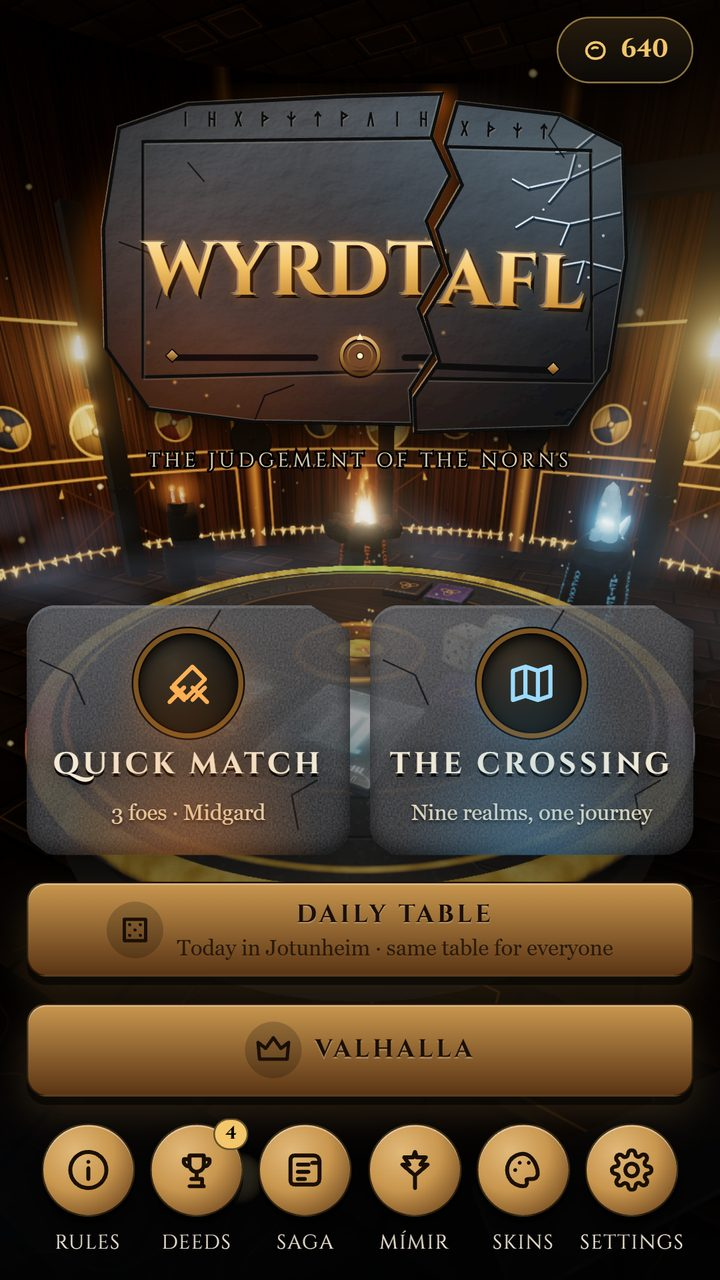
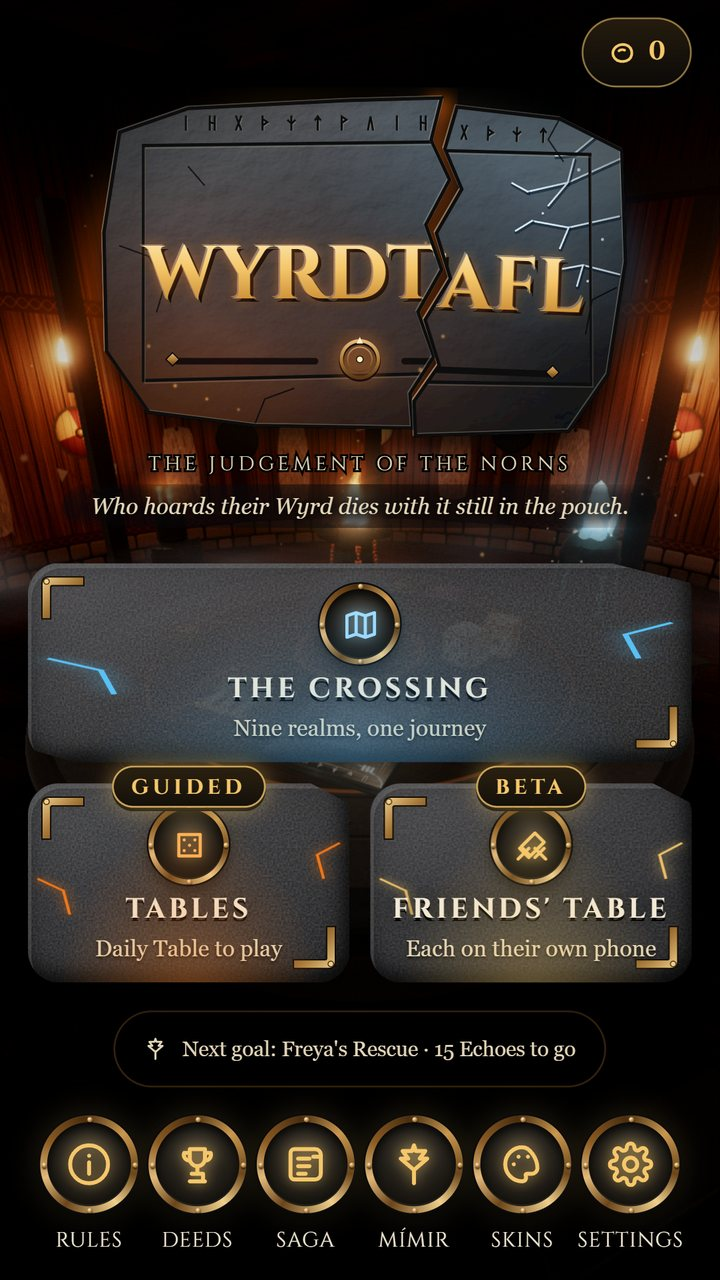
Friends' Table: new section, hall shot, FAQ and privacy (1.4.0)

diff --git a/index.html b/index.html
@@ -4,7 +4,7 @@
   <meta charset="utf-8">
   <meta name="viewport" content="width=device-width, initial-scale=1, viewport-fit=cover">
   <title>Wyrdtafl — The Judgement of the Norns · Norse tile duel for Android</title>
-  <meta name="description" content="Balance Fire and Ice, bet your Wyrd and cross the Nine Realms before the Norns pass judgement. Wyrdtafl is a dark Norse tile duel for Android: single player, offline, no ads, no in-app purchases.">
+  <meta name="description" content="Balance Fire and Ice, bet your Wyrd and cross the Nine Realms before the Norns pass judgement. Wyrdtafl is a dark Norse tile duel for Android: against AI champions or friends at the same table, offline, no ads, no in-app purchases.">
   <meta name="theme-color" content="#07070a">
   <meta name="color-scheme" content="dark">
   <link rel="canonical" href="https://skimiforow.github.io/wyrdtafl/">
@@ -33,7 +33,7 @@
     "@type": ["VideoGame", "MobileApplication"],
     "name": "Wyrdtafl — The Judgement of the Norns",
     "alternateName": "Wyrdtafl",
-    "description": "A single-player Norse tile duel for Android against one to three AI champions. Balance Fire and Ice, bet your Wyrd, cast Galdr Stones and cross the Nine Realms.",
+    "description": "A Norse tile duel for Android against one to three AI champions, or up to four friends each on their own phone. Balance Fire and Ice, bet your Wyrd, cast Galdr Stones and cross the Nine Realms.",
     "url": "https://skimiforow.github.io/wyrdtafl/",
     "image": "https://skimiforow.github.io/wyrdtafl/assets/feature-graphic.png",
     "genre": ["Board game", "Strategy", "Roguelite"],
@@ -211,7 +211,7 @@
       <ul class="pillars reveal" role="list" style="list-style:none;padding:0">
         <li class="pillar">
           <svg viewBox="0 0 32 32" fill="none" stroke="currentColor" stroke-width="1.6" aria-hidden="true"><circle cx="16" cy="16" r="12"/><circle cx="16" cy="16" r="7.5"/><path d="M16 4v5M16 23v5M4 16h5M23 16h5M7.5 7.5l3.5 3.5M21 21l3.5 3.5M24.5 7.5 21 11M11 21l-3.5 3.5"/><circle cx="16" cy="16" r="1.8" fill="currentColor"/></svg>
-          <div><h3>1 to 3 rivals</h3><p>Sit the round table against AI champions who gamble, hoard and strike.</p></div>
+          <div><h3>Rivals or friends</h3><p>Face up to three AI champions who gamble, hoard and strike, or sit friends at the table, each on their own phone.</p></div>
         </li>
         <li class="pillar">
           <svg viewBox="0 0 32 32" fill="none" stroke="currentColor" stroke-width="1.6" aria-hidden="true"><path d="M16 3 27 9v14l-11 6L5 23V9z"/><path d="M16 3v26M5 9l11 6 11-6"/></svg>
@@ -328,6 +328,23 @@
             </ul>
           </div>
         </article>
+
+        <article class="feature tall flip">
+          <figure class="feature-media shot phone gold-glow reveal">
+            <img src="assets/media/shot-phone-09-friends.jpg" width="720" height="1280" loading="lazy" alt="The Friends' Table lobby: the host and a friend marked Ready, with the table's stones, turn timer, AI seats and realm, and Start the table">
+          </figure>
+          <div class="feature-copy reveal" style="--d:.1s">
+            <p class="eyebrow left">Friends' Table · Beta</p>
+            <h2>One table. Every phone.</h2>
+            <p class="lead">Up to four players sit the same table, each on their own phone, with no internet at all: the phones talk over Bluetooth and Wi-Fi. One phone hosts; friends join with a four-digit code the host approves.</p>
+            <ul class="feature-list">
+              <li>A Fair table (every stone for everyone) or a Free one (bring your own), a turn timer, AI seats for the empty chairs.</li>
+              <li>Fair leaving: a dropped phone gets 30 seconds, and walking away counts as a loss.</li>
+              <li>If the host's phone is lost, another phone takes over the table.</li>
+              <li>The Saga keeps your record against every friend, whatever name they use tonight.</li>
+            </ul>
+          </div>
+        </article>
       </div>
     </section>
 
@@ -372,7 +389,7 @@
           <article class="mode frost reveal" style="--d:.12s"><div class="rune" aria-hidden="true">ᚠ</div><h3>Quick Match</h3><p>Choose your foes, your realm and your stones, and sit down at once.</p></article>
           <article class="mode frost reveal"><div class="rune" aria-hidden="true">ᛗ</div><h3>Mímir's Tree</h3><p>Spend Honor Echoes on new stones, relics and permanent power. The harder the crossing, the more Echoes it pays.</p></article>
           <article class="mode ember reveal" style="--d:.06s"><div class="rune" aria-hidden="true">ᚾ</div><h3>Threads of Fate</h3><p>After Ragnarök: iron champions, cold Pyres, Fenrir's chain. Harder tables, greater Echoes.</p></article>
-          <article class="mode gold reveal" style="--d:.12s"><div class="rune" aria-hidden="true">ᛟ</div><h3>Deeds &amp; Saga</h3><p>Ten Deeds to earn, and everything the Norns have written about you so far.</p></article>
+          <article class="mode gold reveal" style="--d:.12s"><div class="rune" aria-hidden="true">ᛟ</div><h3>Deeds &amp; Saga</h3><p>Twelve Deeds to earn, and everything the Norns have written about you so far, friends' tables included.</p></article>
         </div>
       </div>
     </section>
@@ -384,7 +401,8 @@
         <h2 id="screens-title">Drawn by code. Lit by candle.</h2>
       </div>
       <div class="gallery" id="gallery" tabindex="0" aria-label="Screenshots, scroll sideways; select one to enlarge">
-        <button type="button"><img src="assets/media/shot-phone-01-hall.jpg" width="720" height="1280" loading="lazy" alt="The hall: the Wyrdtafl rune stone over the table, with Quick Match, The Crossing and the Daily Table"><span class="cap">The hall</span></button>
+        <button type="button"><img src="assets/media/shot-phone-01-hall.jpg" width="720" height="1280" loading="lazy" alt="The hall: the Wyrdtafl rune stone over the table, with The Crossing, Tables and the Friends' Table"><span class="cap">The hall</span></button>
+        <button type="button"><img src="assets/media/shot-phone-09-friends.jpg" width="720" height="1280" loading="lazy" alt="The Friends' Table lobby with a friend marked Ready"><span class="cap">Friends' Table</span></button>
         <button type="button"><img src="assets/media/shot-phone-02-muspelheim.jpg" width="720" height="1280" loading="lazy" alt="A match in Muspelheim, lava seams glowing round the table"><span class="cap">Muspelheim</span></button>
         <button type="button"><img src="assets/media/shot-phone-04-galdr.jpg" width="720" height="1280" loading="lazy" alt="Invoking Blood Tribute: every opponent loses a Wyrd Stone to the Well of Urd"><span class="cap">Galdr</span></button>
         <button type="button"><img src="assets/media/shot-phone-06-judgement.jpg" width="720" height="1280" loading="lazy" alt="The Verdict: the Norns rank every hand at the table"><span class="cap">The Verdict</span></button>
@@ -424,7 +442,7 @@
         <div class="faq reveal">
           <details><summary>Is it free to play?</summary><p>No — Wyrdtafl is a paid game with a single price. There are no ads, no in-app purchases, no loot boxes and no energy timers. Everything is earned by playing.</p></details>
           <details><summary>Do I need an internet connection or an account?</summary><p>No. The game plays fully offline and needs no account. Signing in to Google Play Games is optional and only adds achievements, leaderboards and cloud save.</p></details>
-          <details><summary>Is there online multiplayer?</summary><p>Not at the moment. Wyrdtafl is single player: you face one to three AI champions, each with their own style of play. The Daily Table gives every player the same seeded table to compare.</p></details>
+          <details><summary>Can I play with friends?</summary><p>Yes, at the Friends' Table (in Beta): up to four players in the same room, each on their own Android phone with Wyrdtafl, no internet needed. There is no online play over the internet; on your own you face one to three AI champions, and the Daily Table gives every player the same seeded table to compare.</p></details>
           <details><summary>Which devices does it support?</summary><p>Android phones, foldables and tablets, in portrait or landscape, plus Samsung DeX and desktop mode with mouse and keyboard. Graphics settings from Light to Max keep it smooth on modest hardware.</p></details>
           <details><summary>Which languages?</summary><p>English, Portuguese, Spanish, French, German, Italian, Polish and Turkish.</p></details>
           <details><summary>Do I need to know Norse myth or tafl games?</summary><p>Not at all. A guided first match teaches the rules in a few rounds; the myth is there to enjoy, not to study.</p></details>

diff --git a/privacy/pt/index.html b/privacy/pt/index.html
@@ -16,7 +16,7 @@
   </header>
   <main class="wrap article">
     <h1>Wyrdtafl — Política de Privacidade</h1>
-    <p class="effective">Em vigor desde 15 de novembro de 2026</p>
+    <p class="effective">Em vigor desde 16 de novembro de 2026</p>
     <p>Esta política aplica-se ao jogo Android <em>Wyrdtafl — O Julgamento das Nornas</em>, publicado por <strong>Skimiforow</strong>, um programador independente. O mesmo texto pode ser lido dentro do jogo em Definições → Sobre → Créditos e privacidade.</p>
 
     <h2>Quem publica o jogo</h2>
@@ -38,7 +38,11 @@
     <p>O formulário envia apenas o texto que escreves, ligado ao último erro dessa sessão, para lermos as tuas palavras ao lado dos detalhes técnicos. Nada é enviado sem tocares em Enviar. As versões de teste do jogo podem também pedir-te, uma vez, que lhe dês notas de 1 a 5; essas notas e o comentário que acrescentares são enviados ao Sentry da mesma forma, e só se tocares em Enviar.</p>
 
     <h2>Permissões</h2>
-    <p>O jogo usa estas permissões, que o Android concede sem perguntar: <strong>Internet</strong> e <strong>estado da rede</strong>, usadas apenas para enviar relatórios de falhas e de problemas; <strong>vibração</strong>, para a resposta háptica (que podes desligar nas Definições); e <strong>manter o dispositivo ativo</strong> e <strong>arranque concluído</strong>, usadas apenas pelo lembrete diário opcional (para o entregar e para o voltar a armar depois de o telemóvel reiniciar). A única que pede é a de <strong>Notificações</strong> (Android 13 e posteriores), e só quando ativas o lembrete diário nas Definições. Não usa o identificador de publicidade nem a permissão de alarmes exatos. Joga-se totalmente offline.</p>
+    <p>O jogo usa estas permissões, que o Android concede sem perguntar: <strong>Internet</strong> e <strong>estado da rede</strong>, usadas apenas para enviar relatórios de falhas e de problemas; <strong>vibração</strong>, para a resposta háptica (que podes desligar nas Definições); e <strong>manter o dispositivo ativo</strong> e <strong>arranque concluído</strong>, usadas apenas pelo lembrete diário opcional (para o entregar e para o voltar a armar depois de o telemóvel reiniciar). Fora da Mesa de Amigos, a única que pede é a de <strong>Notificações</strong> (Android 13 e posteriores), e só quando ativas o lembrete diário nas Definições. Não usa o identificador de publicidade nem a permissão de alarmes exatos. Joga-se totalmente offline.</p>
+    <p>Para a Mesa de Amigos (ver abaixo) usa também o <strong>Bluetooth</strong> (Android 12 e posteriores: <strong>dispositivos próximos</strong> — encontrar telemóveis próximos, anunciar-se e ligar-se a eles; Android 11 e anteriores: Bluetooth e administração do Bluetooth), os <strong>dispositivos Wi-Fi próximos</strong> (Android 13 e posteriores, declarada como nunca usada para obter a localização), o <strong>estado do Wi-Fi</strong> (concedida sem perguntar) e, só no Android 12 e anteriores, a <strong>localização</strong>, que o Android exige para encontrar dispositivos próximos: o jogo não lê nenhuma localização. Estas só são pedidas quando abres a Mesa de Amigos.</p>
+
+    <h2>Mesa de Amigos (multijogador local)</h2>
+    <p>Numa Mesa de Amigos os telemóveis falam diretamente entre si por Bluetooth e Wi-Fi Direct (Google Nearby Connections), sem internet. Só se trocam as jogadas, os nomes escolhidos à mesa e um código aleatório, e só com os telemóveis dessa mesa: nada nos é enviado. O código é criado no teu telemóvel da primeira vez que abres a Mesa de Amigos e não está ligado a ti, à tua conta nem ao teu dispositivo; cada telemóvel usa-o para guardar, no próprio telemóvel, um registo das mesas jogadas com cada amigo (os nomes mais recentes e os resultados), que aparece na tua Saga. É apagado com os dados do jogo. No Android 12 e anteriores, o Android pede a permissão de localização apenas porque a exige para encontrar dispositivos próximos; o jogo não lê nenhuma localização. As permissões de Bluetooth e de dispositivos próximos só são pedidas quando abres a Mesa de Amigos.</p>
 
     <h2>Lembrete diário (opcional)</h2>
     <p>Se o ativares nas Definições, o jogo agenda uma notificação por dia à hora que escolheres. É uma notificação local, criada no teu dispositivo: nada é enviado para nós nem para ninguém, e nenhum dado sobre ela sai do teu telemóvel. Podes desativá-la a qualquer momento nas Definições ou nas definições de notificações do Android.</p>

diff --git a/privacy/index.html b/privacy/index.html
@@ -16,7 +16,7 @@
   </header>
   <main class="wrap article">
     <h1>Wyrdtafl — Privacy Policy</h1>
-    <p class="effective">Effective 15 November 2026</p>
+    <p class="effective">Effective 16 November 2026</p>
     <p>This policy covers the Android game <em>Wyrdtafl — The Judgement of the Norns</em>, published by <strong>Skimiforow</strong>, an independent developer. The same text is readable inside the game under Settings → About → Credits &amp; privacy.</p>
 
     <h2>Who publishes the game</h2>
@@ -38,7 +38,11 @@
     <p>The report form sends only the text you type, linked to the last error of that session, so we can read your words next to the technical details. Nothing is sent unless you tap Send. Test versions of the game may also ask you, once, to rate it from 1 to 5; those ratings and any comment you add are sent to Sentry the same way, and only if you tap Send.</p>
 
     <h2>Permissions</h2>
-    <p>The game uses these permissions, which Android grants without asking: <strong>Internet</strong> and <strong>network state</strong>, used solely to send crash reports and problem reports; <strong>vibration</strong>, for the haptic feedback (which you can switch off in Settings); and <strong>wake lock</strong> and <strong>receive boot completed</strong>, used only by the optional daily reminder (to deliver it and to re-arm it after the phone restarts). The one permission it ever asks for is <strong>Notifications</strong> (Android 13 and later), and only when you switch on the daily reminder in Settings. It does not use the advertising ID or the exact-alarm permission. It plays fully offline.</p>
+    <p>The game uses these permissions, which Android grants without asking: <strong>Internet</strong> and <strong>network state</strong>, used solely to send crash reports and problem reports; <strong>vibration</strong>, for the haptic feedback (which you can switch off in Settings); and <strong>wake lock</strong> and <strong>receive boot completed</strong>, used only by the optional daily reminder (to deliver it and to re-arm it after the phone restarts). Outside the Friends' Table, the one permission it asks for is <strong>Notifications</strong> (Android 13 and later), and only when you switch on the daily reminder in Settings. It does not use the advertising ID or the exact-alarm permission. It plays fully offline.</p>
+    <p>For the Friends' Table (see below) it also uses <strong>Bluetooth</strong> (Android 12 and later: <strong>nearby devices</strong> — find, advertise to and connect to nearby phones; Android 11 and below: Bluetooth and Bluetooth admin), <strong>nearby Wi-Fi devices</strong> (Android 13 and later, declared as never used to derive location), <strong>Wi-Fi state</strong> (granted without asking) and, on Android 12 and below only, <strong>location</strong>, which Android requires to find nearby devices: the game reads no location. These are asked only when you open the Friends' Table.</p>
+
+    <h2>Friends' Table (local multiplayer)</h2>
+    <p>At a Friends' Table the phones talk directly to each other over Bluetooth and Wi-Fi Direct (Google Nearby Connections), with no internet. Only the game moves, the player names chosen at the table and a random code are exchanged, and only with the phones at that table: nothing is sent to us. The code is created on your phone the first time you open the Friends' Table and is not linked to you, your account or your device; each phone uses it to keep, on the phone itself, a record of the tables played with each friend (their latest names and the results), shown in your Saga. It is deleted with the game's data. On Android 12 and below, Android asks for the location permission only because it requires it to find nearby devices; the game reads no location. The Bluetooth and nearby-devices permissions are asked only when you open the Friends' Table.</p>
 
     <h2>Daily reminder (optional)</h2>
     <p>If you switch it on in Settings, the game schedules one notification a day at the time you choose. It is a local notification created on your device: nothing is sent to us or to anyone else, and no data about it leaves your phone. Switch it off in Settings, or in Android's notification settings, at any time.</p>
